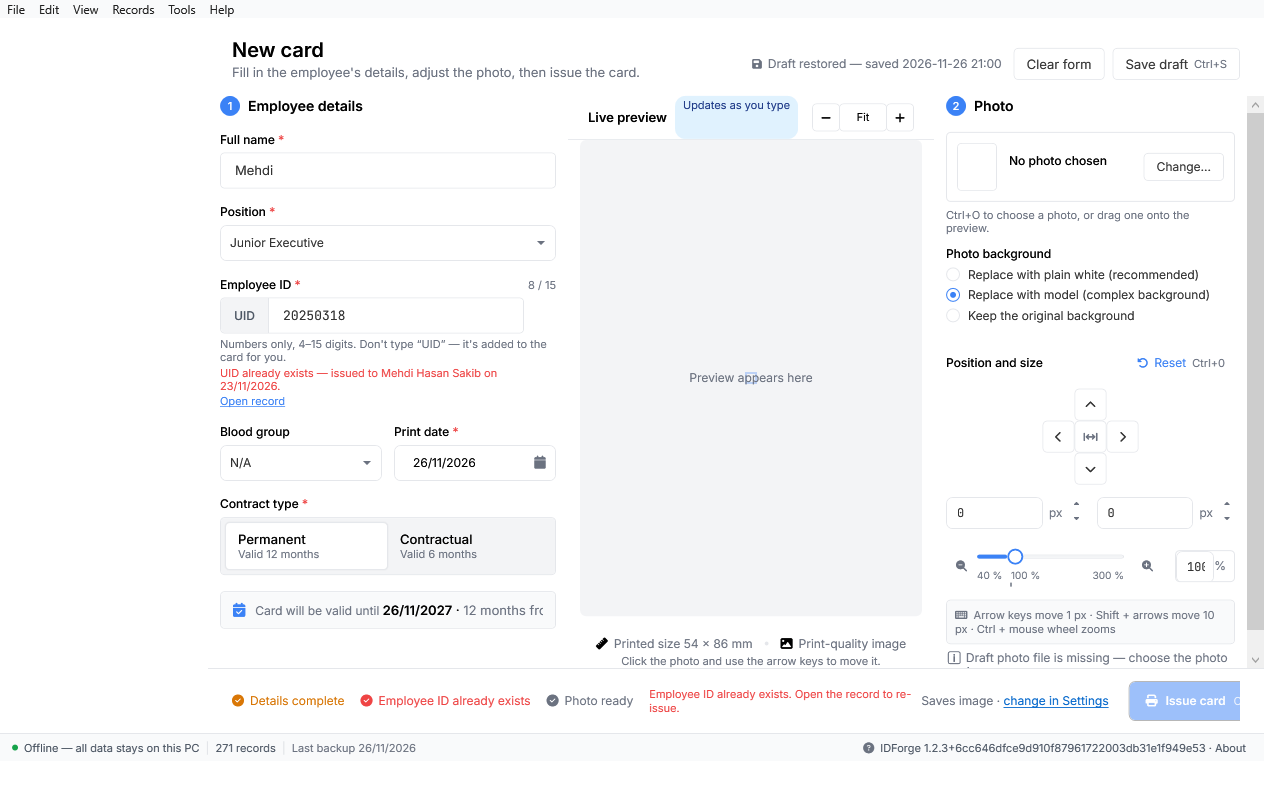
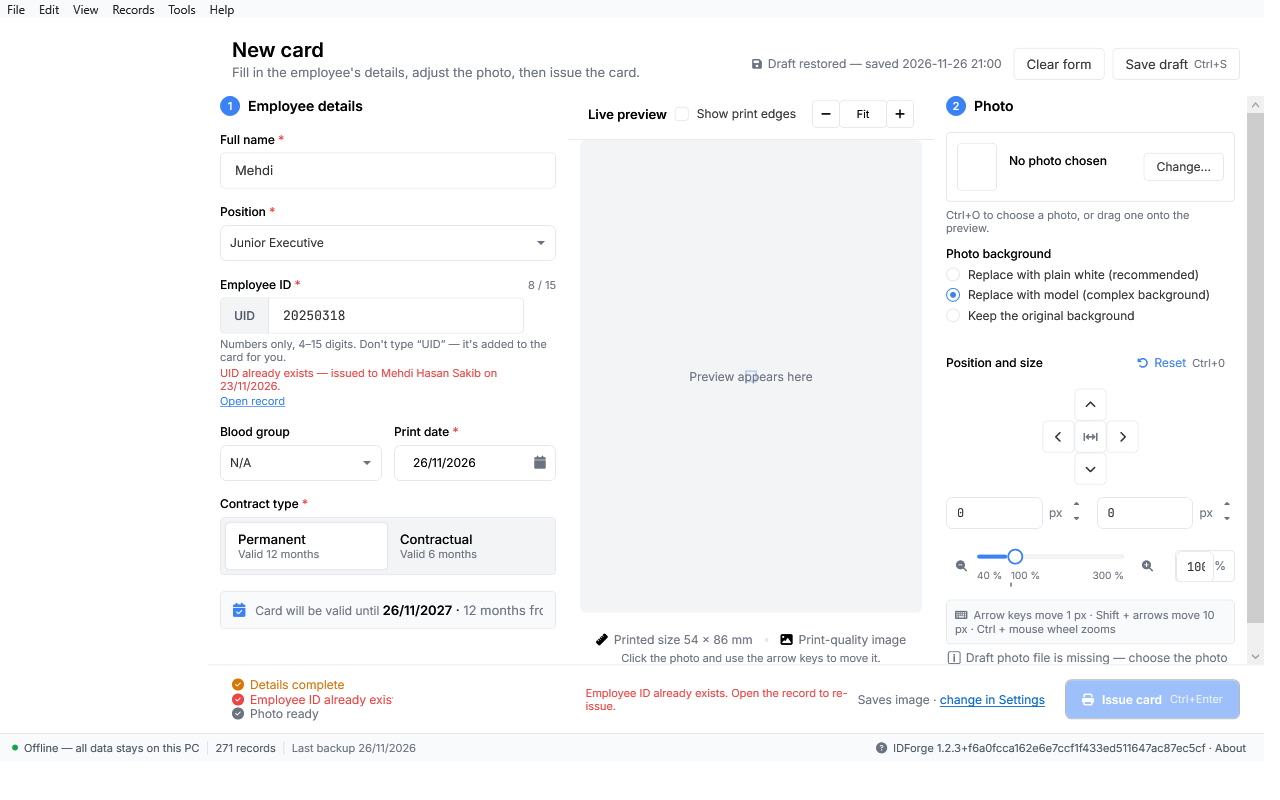
FIX 2: preview header wraps, footer can't push Issue card off-window
- Preview header is now a 2-row Grid: title+badge on row 0, the
  checkbox + Fit controls on row 1 when the header is too narrow
  (MinHeight 44 → grows instead of clipping). Named elements:
  TxtLivePreview, PnlLiveBadge, ChkPrintEdges, PnlPreviewControls.
- Footer chips moved from StackPanel to WrapPanel inside a star-sized
  column so chips wrap to a second line instead of pushing
  "Issue card" outside the window at 860/1100 px.
- New tests: PreviewHeader_No_Overlap_Or_Clip (bounding rects, no
  overlap, ActualWidth >= DesiredSize-minus-margin at 860/1100/1280)
  and Footer_Issue_Button_Inside_Window.

Generated with [Devin](https://devin.ai)

diff --git a/src/IDForge/MainWindow.xaml b/src/IDForge/MainWindow.xaml
@@ -807,21 +807,38 @@
                                     <RowDefinition Height="*"/>
                                     <RowDefinition Height="Auto"/>
                                 </Grid.RowDefinitions>
-                                <Border Grid.Row="0" Height="44" Padding="20,0"
+                                <!-- FIX 2: MinHeight (not fixed 44) so the controls
+                                     can drop to a second line at narrow widths. -->
+                                <Border x:Name="PnlPreviewHeader" MinHeight="44" Padding="20,4"
                                         Background="{StaticResource BackgroundBrush}"
                                         BorderBrush="{StaticResource BorderBrush}"
-                                        BorderThickness="0,0,0,1">
-                                    <DockPanel>
-                                        <StackPanel DockPanel.Dock="Left" Orientation="Horizontal">
-                                            <TextBlock Text="Live preview" FontSize="13"
-                                                       FontWeight="SemiBold" VerticalAlignment="Center"/>
-                                            <Border Margin="8,0,0,0" Padding="8,2" CornerRadius="10"
+                                        BorderThickness="0,0,0,1"
+                                        SizeChanged="PreviewHeader_SizeChanged">
+                                    <Grid>
+                                        <Grid.RowDefinitions>
+                                            <RowDefinition Height="Auto"/>
+                                            <RowDefinition Height="Auto"/>
+                                        </Grid.RowDefinitions>
+                                        <Grid.ColumnDefinitions>
+                                            <ColumnDefinition Width="*"/>
+                                            <ColumnDefinition Width="Auto"/>
+                                        </Grid.ColumnDefinitions>
+                                        <StackPanel x:Name="PnlPreviewTitle" Grid.Row="0" Grid.Column="0"
+                                                    Orientation="Horizontal" VerticalAlignment="Center">
+                                            <TextBlock x:Name="TxtLivePreview" Text="Live preview"
+                                                       FontSize="13" FontWeight="SemiBold"
+                                                       VerticalAlignment="Center"/>
+                                            <Border x:Name="PnlLiveBadge" Margin="8,0,0,0" Padding="8,2"
+                                                    CornerRadius="10"
                                                     Background="{StaticResource AccentBrush}">
                                                 <TextBlock Text="Updates as you type" FontSize="11"
                                                            Foreground="{StaticResource AccentTextBrush}"/>
                                             </Border>
                                         </StackPanel>
-                                        <StackPanel DockPanel.Dock="Right" Orientation="Horizontal"
+                                        <!-- checkbox + Fit controls; wraps to row 1 when
+                                             the header is too narrow (code-behind) -->
+                                        <StackPanel x:Name="PnlPreviewControls" Grid.Row="0" Grid.Column="1"
+                                                    Orientation="Horizontal"
                                                     HorizontalAlignment="Right" VerticalAlignment="Center">
                                             <CheckBox x:Name="ChkPrintEdges" Content="Show print edges"
                                                       Style="{StaticResource DesignCheckBox}"
@@ -839,7 +856,7 @@
                                                     ToolTip="Zoom in" Margin="-1,0,0,0"
                                                     Click="PreviewZoomIn_Click"/>
                                         </StackPanel>
-                                    </DockPanel>
+                                    </Grid>
                                 </Border>
                                 <Border x:Name="PreviewArea" Grid.Row="1" Margin="12,0,12,4"
                                         CornerRadius="6" Background="{StaticResource PanelBrush}"
@@ -974,13 +991,17 @@
                             BorderBrush="{StaticResource BorderBrush}" BorderThickness="0,1,0,0">
                         <Grid>
                             <Grid.ColumnDefinitions>
-                                <ColumnDefinition Width="Auto"/>
+                                <!-- FIX 2: col0 is star-sized so the WrapPanel is
+                                     width-constrained and wraps instead of pushing
+                                     the Issue card off-window. -->
+                                <ColumnDefinition Width="*"/>
                                 <ColumnDefinition Width="*"/>
                                 <ColumnDefinition Width="Auto"/>
                             </Grid.ColumnDefinitions>
-                            <!-- chips: check icon + plain text, no pill borders -->
-                            <StackPanel Grid.Column="0" Orientation="Horizontal"
-                                        VerticalAlignment="Center">
+                            <!-- chips: check icon + plain text, no pill borders.
+                                 WrapPanel (FIX 2): chips wrap to a second line at
+                                 narrow widths instead of pushing Issue card off-window. -->
+                            <WrapPanel Grid.Column="0" VerticalAlignment="Center">
                                 <StackPanel x:Name="ChipDetails" Orientation="Horizontal"
                                             Margin="0,0,16,0">
                                     <TextBlock Text="&#xF058;" FontFamily="{StaticResource IconFont}"
@@ -1007,7 +1028,7 @@
                                 <TextBlock x:Name="TxtStatus" Margin="16,0,0,0"
                                            VerticalAlignment="Center" TextWrapping="Wrap" MaxWidth="380"
                                            Foreground="{StaticResource TextBrush}" FontSize="12"/>
-                            </StackPanel>
+                            </WrapPanel>
                             <StackPanel Grid.Column="2" Orientation="Horizontal"
                                         HorizontalAlignment="Right" VerticalAlignment="Center">
                                 <TextBlock x:Name="TxtIssueBlocked"

diff --git a/tests/IDForge.Tests/NewCardParityTests.cs b/tests/IDForge.Tests/NewCardParityTests.cs
@@ -118,6 +118,92 @@ public class NewCardParityTests
         });
     }
 
+    /// <summary>FIX 2: preview header elements never overlap or clip —
+    /// the controls wrap to a second line instead of covering the title.</summary>
+    [Theory]
+    [InlineData(860, 620)]
+    [InlineData(1100, 700)]
+    [InlineData(1280, 800)]
+    public void PreviewHeader_No_Overlap_Or_Clip(int w, int h)
+    {
+        WpfSta.Run(() =>
+        {
+            var win = NewShownNewCard(w, h);
+            try
+            {
+                // Let the deferred wrap decision run.
+                for (int i = 0; i < 10; i++)
+                    Dispatcher.CurrentDispatcher.Invoke(() => { }, DispatcherPriority.Loaded);
+                win.UpdateLayout();
+
+                var names = new[] { "TxtLivePreview", "PnlLiveBadge",
+                                    "ChkPrintEdges", "PnlPreviewControls" };
+                var rects = new Dictionary<string, Rect>();
+                foreach (var n in names)
+                {
+                    var fe = (FrameworkElement)win.FindName(n)!;
+                    Assert.True(fe.IsVisible, $"{n} not visible");
+                    rects[n] = BoundsIn(fe, win);
+                    // DesiredSize includes Margin in this WPF version — compare
+                    // the arranged width against desired minus the margins.
+                    var needW = fe.DesiredSize.Width - fe.Margin.Left - fe.Margin.Right;
+                    Assert.True(fe.ActualWidth >= needW - 0.5,
+                        $"{n} clipped: actual {fe.ActualWidth:F1} < desired-minus-margin {needW:F1}");
+                }
+                foreach (var a in names)
+                    foreach (var b in names)
+                    {
+                        if (a == b) continue;
+                        var ea = (DependencyObject)win.FindName(a)!;
+                        var eb = (DependencyObject)win.FindName(b)!;
+                        // Parent/child pairs overlap by definition — skip them.
+                        if (IsAncestor(ea, eb) || IsAncestor(eb, ea)) continue;
+                        var ra = rects[a]; var rb = rects[b];
+                        var inter = Rect.Intersect(ra, rb);
+                        Assert.True(inter.IsEmpty || inter.Width < 0.5 || inter.Height < 0.5,
+                            $"{a} {ra} overlaps {b} {rb}");
+                    }
+                // Every header child must stay inside the window horizontally.
+                var header = (FrameworkElement)win.FindName("PnlPreviewHeader")!;
+                var hr = BoundsIn(header, win);
+                Assert.True(hr.Right <= win.ActualWidth + 0.5,
+                    $"preview header right {hr.Right:F1} beyond window {win.ActualWidth:F1}");
+            }
+            finally { SettleThenClose(win); }
+        });
+    }
+
+    private static bool IsAncestor(DependencyObject ancestor, DependencyObject node)
+    {
+        for (var p = VisualTreeHelper.GetParent(node); p != null;
+             p = VisualTreeHelper.GetParent(p))
+            if (ReferenceEquals(p, ancestor)) return true;
+        return false;
+    }
+
+    /// <summary>FIX 2: footer must keep Issue card inside the window at every size.</summary>
+    [Theory]
+    [InlineData(860, 620)]
+    [InlineData(1100, 700)]
+    [InlineData(1280, 800)]
+    public void Footer_Issue_Button_Inside_Window(int w, int h)
+    {
+        WpfSta.Run(() =>
+        {
+            var win = NewShownNewCard(w, h);
+            try
+            {
+                var btn = (FrameworkElement)win.FindName("BtnSave")!;
+                var b = BoundsIn(btn, win);
+                Assert.True(b.Right <= win.ActualWidth + 0.5,
+                    $"BtnSave right {b.Right:F1} beyond window {win.ActualWidth:F1}");
+                Assert.True(b.Left >= 0,
+                    $"BtnSave left {b.Left:F1} before window edge");
+            }
+            finally { SettleThenClose(win); }
+        });
+    }
+
     /// <summary>FIX 1: dedicated shot proving every icon renders (no tofu).</summary>
     [Fact]
     public void NewCard_Icons_Render_Screenshot()

diff --git a/src/IDForge/MainWindow.xaml.cs b/src/IDForge/MainWindow.xaml.cs
@@ -954,6 +954,36 @@ public partial class MainWindow : Window
 
     private void PreviewArea_SizeChanged(object sender, SizeChangedEventArgs e) => ApplyPreviewZoom();
 
+    /// <summary>FIX 2: when the preview header is too narrow for title +
+    /// controls on one line, the controls drop to a second row — text is
+    /// never clipped. Deferred so DesiredSize is measured after layout.</summary>
+    private void PreviewHeader_SizeChanged(object sender, SizeChangedEventArgs e)
+    {
+        Dispatcher.BeginInvoke(() => UpdatePreviewHeaderWrap(), DispatcherPriority.Loaded);
+    }
+
+    private void UpdatePreviewHeaderWrap()
+    {
+        if (PnlPreviewHeader == null || PnlPreviewControls == null ||
+            PnlPreviewTitle == null || PnlPreviewHeader.ActualWidth <= 0) return;
+        var titleW = PnlPreviewTitle.DesiredSize.Width;
+        var ctrlW = PnlPreviewControls.DesiredSize.Width;
+        var avail = PnlPreviewHeader.ActualWidth - 40;   // Padding 20 left+right
+        var wrap = titleW + ctrlW > avail - 8;
+        if (wrap)
+        {
+            Grid.SetRow(PnlPreviewControls, 1);
+            Grid.SetColumn(PnlPreviewControls, 0);
+            Grid.SetColumnSpan(PnlPreviewControls, 2);
+        }
+        else
+        {
+            Grid.SetRow(PnlPreviewControls, 0);
+            Grid.SetColumn(PnlPreviewControls, 1);
+            Grid.SetColumnSpan(PnlPreviewControls, 1);
+        }
+    }
+
     /// <summary>Ctrl+wheel steps the preview zoom, same as the −/+ buttons.</summary>
     private void Preview_MouseWheel(object sender, MouseWheelEventArgs e)
     {
